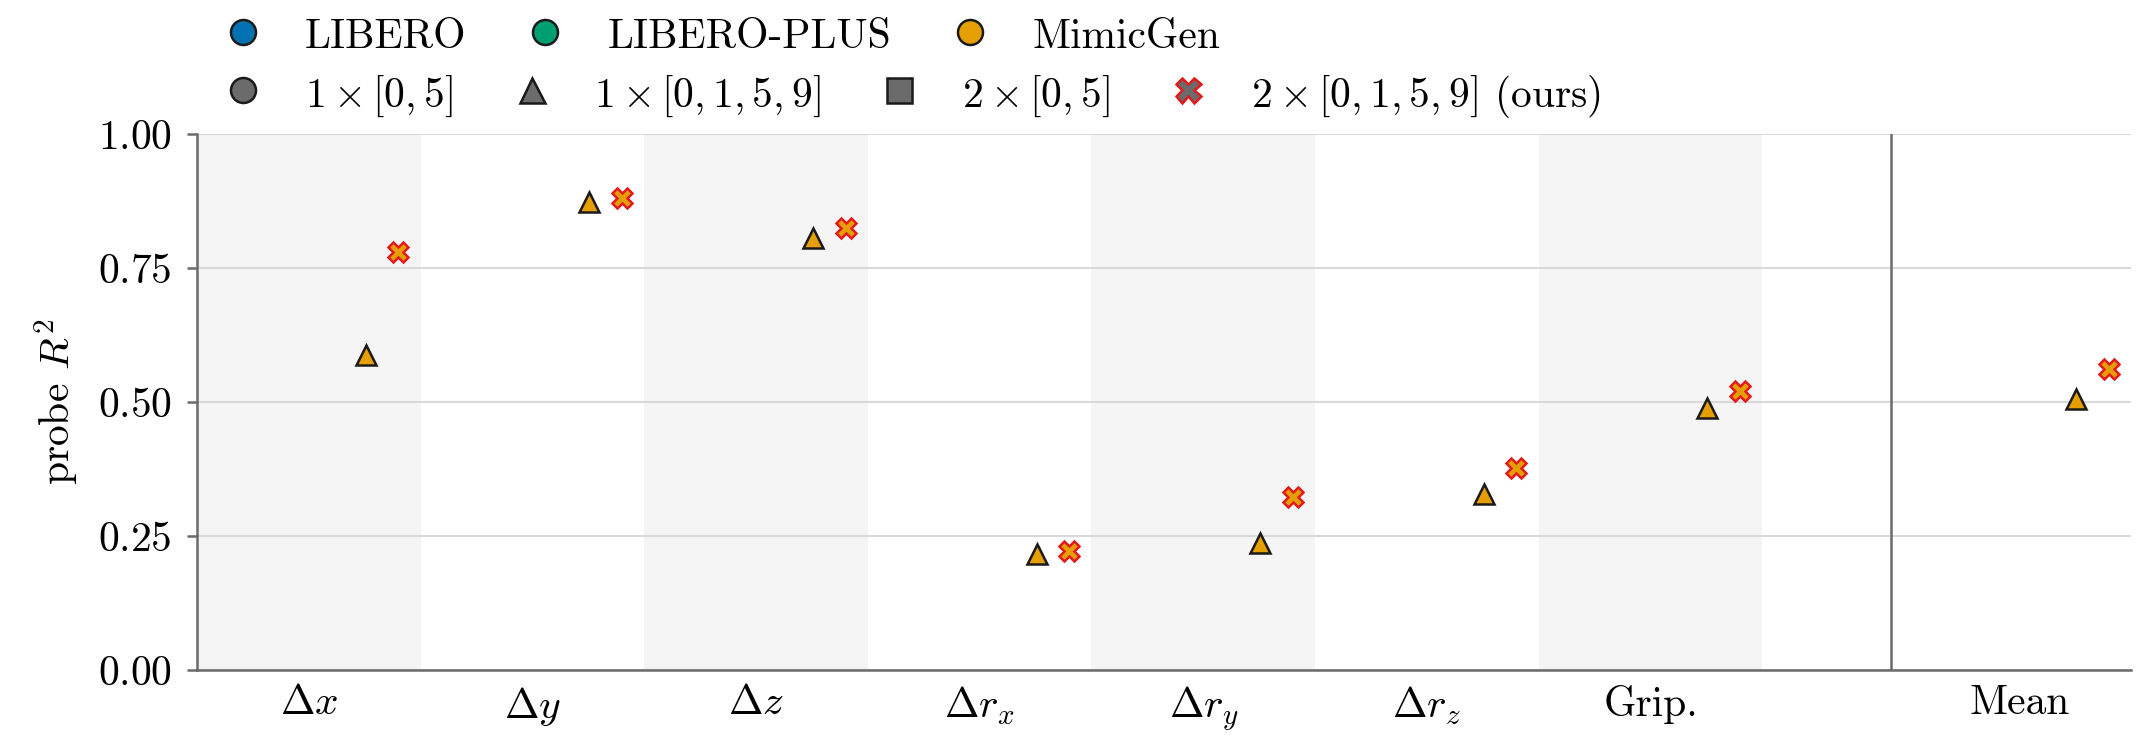
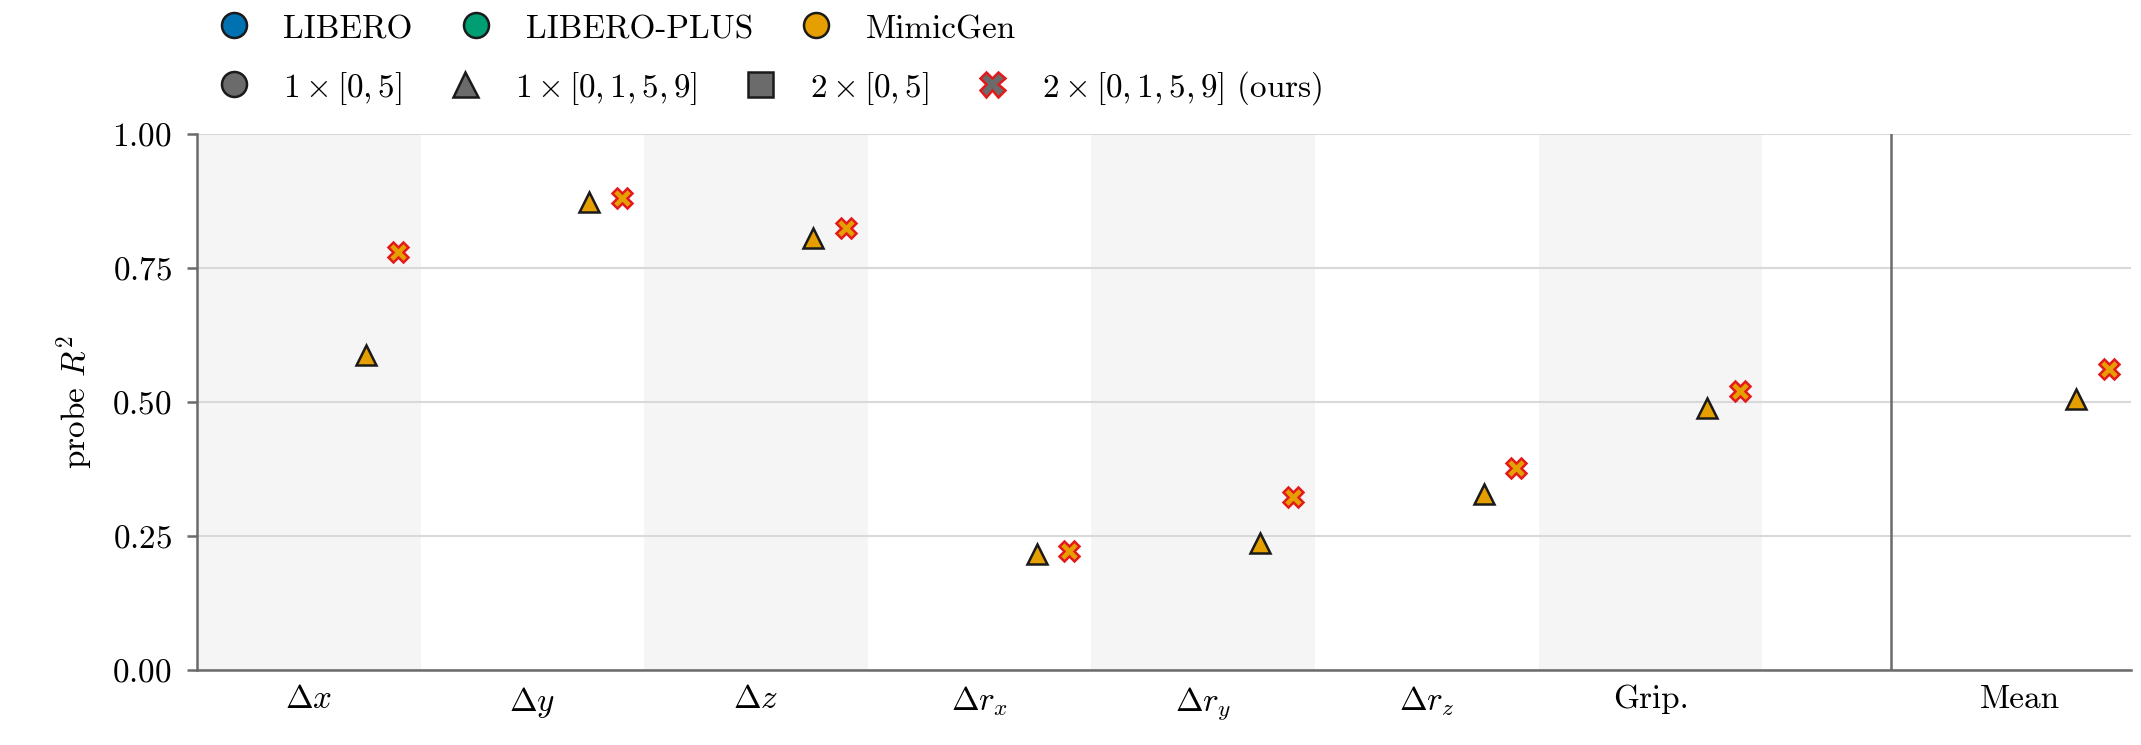
style: paper figure text to 8pt (footnotesize), matching the science look
Seeing both outputs side by side, 8pt reads better than 10pt -- it's
IEEEtran \footnotesize, the caption size, so figure labels sit a clear
step below the 10pt body instead of level with it. Renamed BODY_PT ->
FIG_PT to stop implying "= body"; FIG_PT_TEX = 10 restores the old
behaviour.

Verified in the PDF: paper text is now 7.97 PS pt = 8.000 TeX pt on
the page, matching the SciencePlots output (8.03 TeX pt) to within
0.4%. Page still exactly \textwidth; docs updated.

diff --git a/style.py b/style.py
@@ -25,16 +25,17 @@ import matplotlib.pyplot as plt
 COL_WIDTH = 252 / 72.27   # 3.487in  \columnwidth  (single column)
 TEXT_WIDTH = 516 / 72.27  # 7.140in  \textwidth    (both columns, use figure*)
 
-# Body text size of the document. Figure text is set to match, so a label in a
-# figure reads at the same size as the prose around it.
+# Figure text size, in points. 8pt = IEEEtran's \footnotesize, the size the
+# class already uses for captions -- so figure labels sit a clear step below the
+# 10pt body, which reads as subordinate (the conventional choice for figures).
+# The document body is 10pt; set FIG_PT_TEX = 10 to match it instead.
 #
-# The conversion is not decorative: \documentclass[10pt] means 10 TeX points
-# (1/72.27in), while a matplotlib font size is in PostScript points (1/72in).
-# Passing a bare 10 to matplotlib would render 0.37% large. Invisible in
-# practice, but the point of this file is that the number is exactly right
-# rather than approximately right.
-BODY_PT_TEX = 10
-BODY_PT = BODY_PT_TEX * 72 / 72.27  # 9.963 PostScript pt
+# The conversion is not decorative: a size in TeX points (1/72.27in) is not the
+# same as a matplotlib font size, which is in PostScript points (1/72in). Passing
+# a bare 8 to matplotlib would render 0.37% large. Invisible in practice, but the
+# point of this file is that the number is exactly right, not approximately.
+FIG_PT_TEX = 8
+FIG_PT = FIG_PT_TEX * 72 / 72.27  # 7.970 PostScript pt
 
 FIG_DIR = Path(__file__).resolve().parent / "figures"
 
@@ -78,7 +79,7 @@ GRID = "#d9d9d9"
 
 
 def apply_style():
-    """Set rcParams to match IEEEtran body text."""
+    """Set rcParams: Computer Modern at IEEEtran footnotesize (see FIG_PT)."""
     matplotlib.rcParams.update({
         # main.tex loads no font package (no times/newtx/mathptmx/lmodern), so
         # the document renders in Computer Modern. matplotlib ships CM, so the
@@ -91,15 +92,15 @@ def apply_style():
         "axes.unicode_minus": False,
         "axes.formatter.use_mathtext": True,
 
-        # Every piece of figure text is set at the document's body size, so a
-        # label in a figure reads at exactly the size of the prose around it.
-        # This only holds if the figure is included at 1:1 -- see figsize().
-        "font.size": BODY_PT,
-        "axes.labelsize": BODY_PT,
-        "axes.titlesize": BODY_PT,
-        "xtick.labelsize": BODY_PT,
-        "ytick.labelsize": BODY_PT,
-        "legend.fontsize": BODY_PT,
+        # Every piece of figure text is set at FIG_PT (8pt footnotesize), so a
+        # label lands on the page at that exact size -- but only if the figure is
+        # included at 1:1, see figsize().
+        "font.size": FIG_PT,
+        "axes.labelsize": FIG_PT,
+        "axes.titlesize": FIG_PT,
+        "xtick.labelsize": FIG_PT,
+        "ytick.labelsize": FIG_PT,
+        "legend.fontsize": FIG_PT,
 
         # All text is black. The spines, tick marks and grid stay recessive
         # grey (they are rules, not text), but every label -- axis titles and

diff --git a/plot_probing.py b/plot_probing.py
@@ -26,10 +26,10 @@ not figure. Needs \usepackage{graphicx}.
       \label{fig:probing}
     \end{figure*}
 
-Do not rescale it. Every label is set at the document's 10pt body size in
-Computer Modern, the same typeface main.tex renders in, so at width=\textwidth
-figure text matches the surrounding prose exactly. Any width= other than
-\textwidth scales that text off body size.
+Do not rescale it. Every label is set at 8pt (IEEEtran \footnotesize, the
+caption size -- a step below the 10pt body) in Computer Modern, the typeface
+main.tex renders in, so at width=\textwidth the labels land on the page at
+exactly that size. Any width= other than \textwidth scales the text off it.
 
 Input schema (see results/README.md). One row per action dimension plus an
 optional aggregate row where ``action_dim == "mean"``:

diff --git a/README.md b/README.md
@@ -77,9 +77,11 @@ They live in `style.py`; change them there, not in individual scripts.
 1pc, so `\columnwidth` = 252 TeX pt. The conference and compsoc branches of the
 class use different values; these are the journal ones.
 
-**Font sizes match the body text.** Every label is set at the document's 10pt,
-converted from TeX points (1/72.27in) to the PostScript points (1/72in)
-matplotlib measures in — a bare `10` would render 0.37% large. Every piece of
+**Font size is 8pt** (`FIG_PT`) — IEEEtran `\footnotesize`, the caption size, a
+step below the 10pt body, which reads as subordinate the way figure text should.
+Set `FIG_PT_TEX = 10` in `style.py` to match body instead. It is specified in
+TeX points (1/72.27in) and converted to the PostScript points (1/72in)
+matplotlib measures in — a bare `8` would render 0.37% large. Every piece of
 figure text is this one size; if a row *looks* larger, suspect a tall glyph, not
 the font. Computer Modern's math braces `\{ \}` render ~40% taller than digits
 and made the legend read as oversized, which is why the marker labels use
